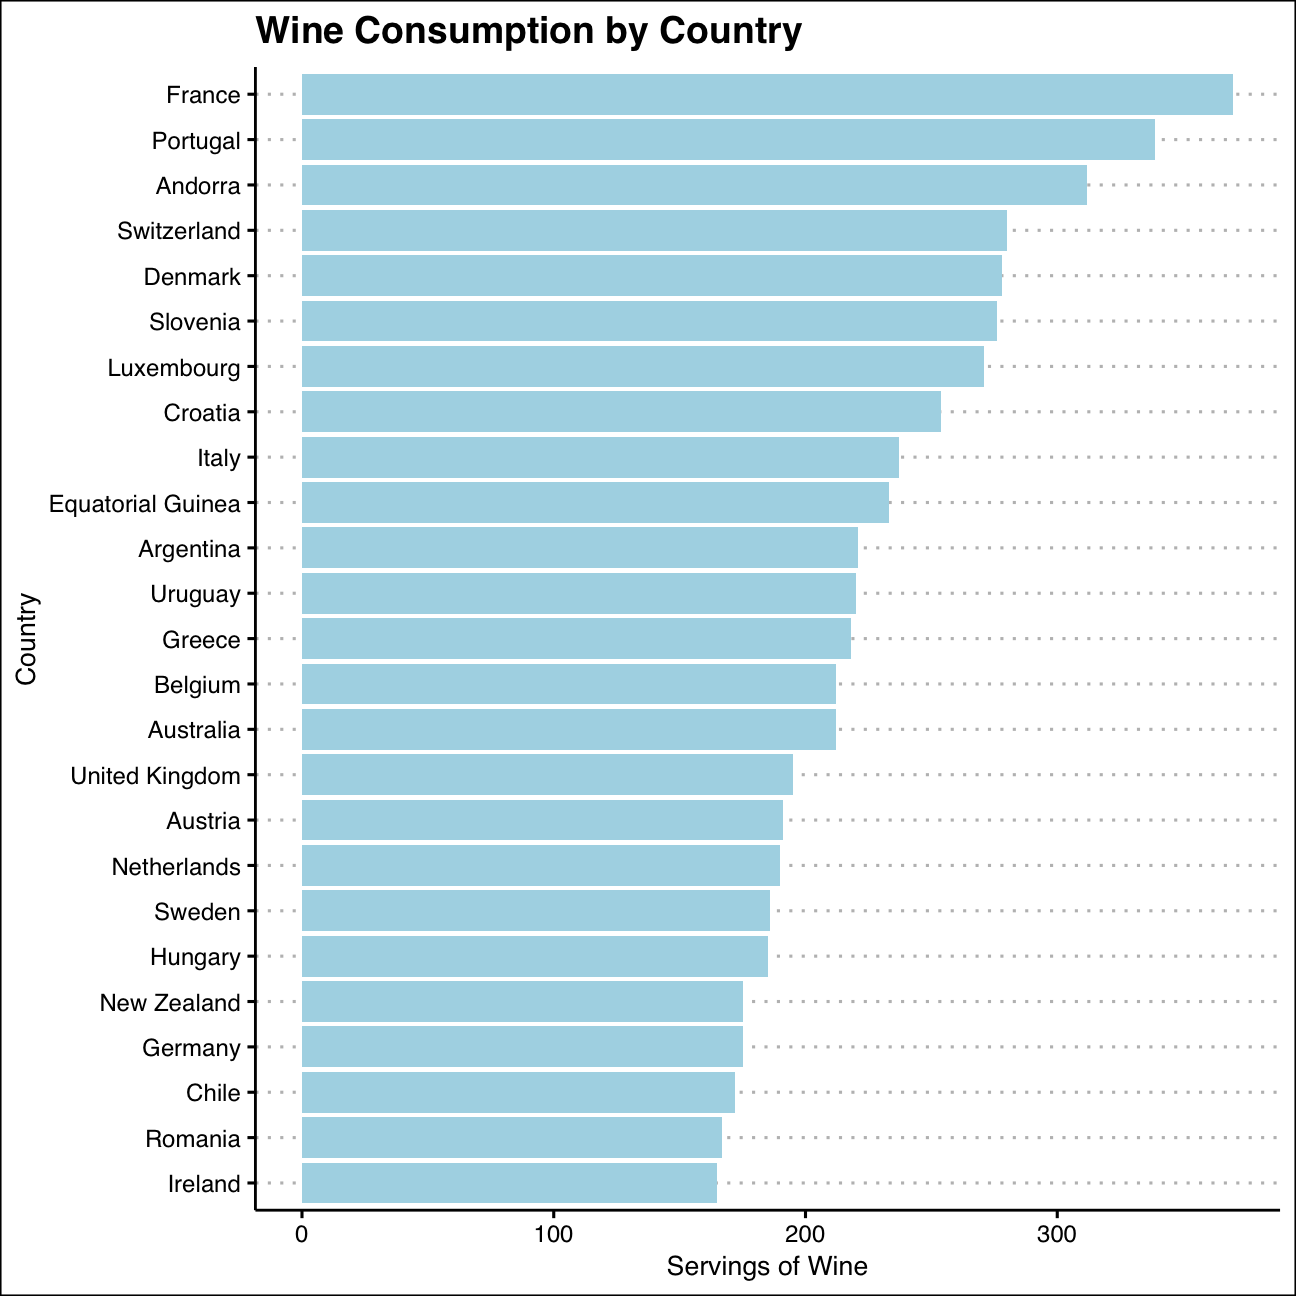
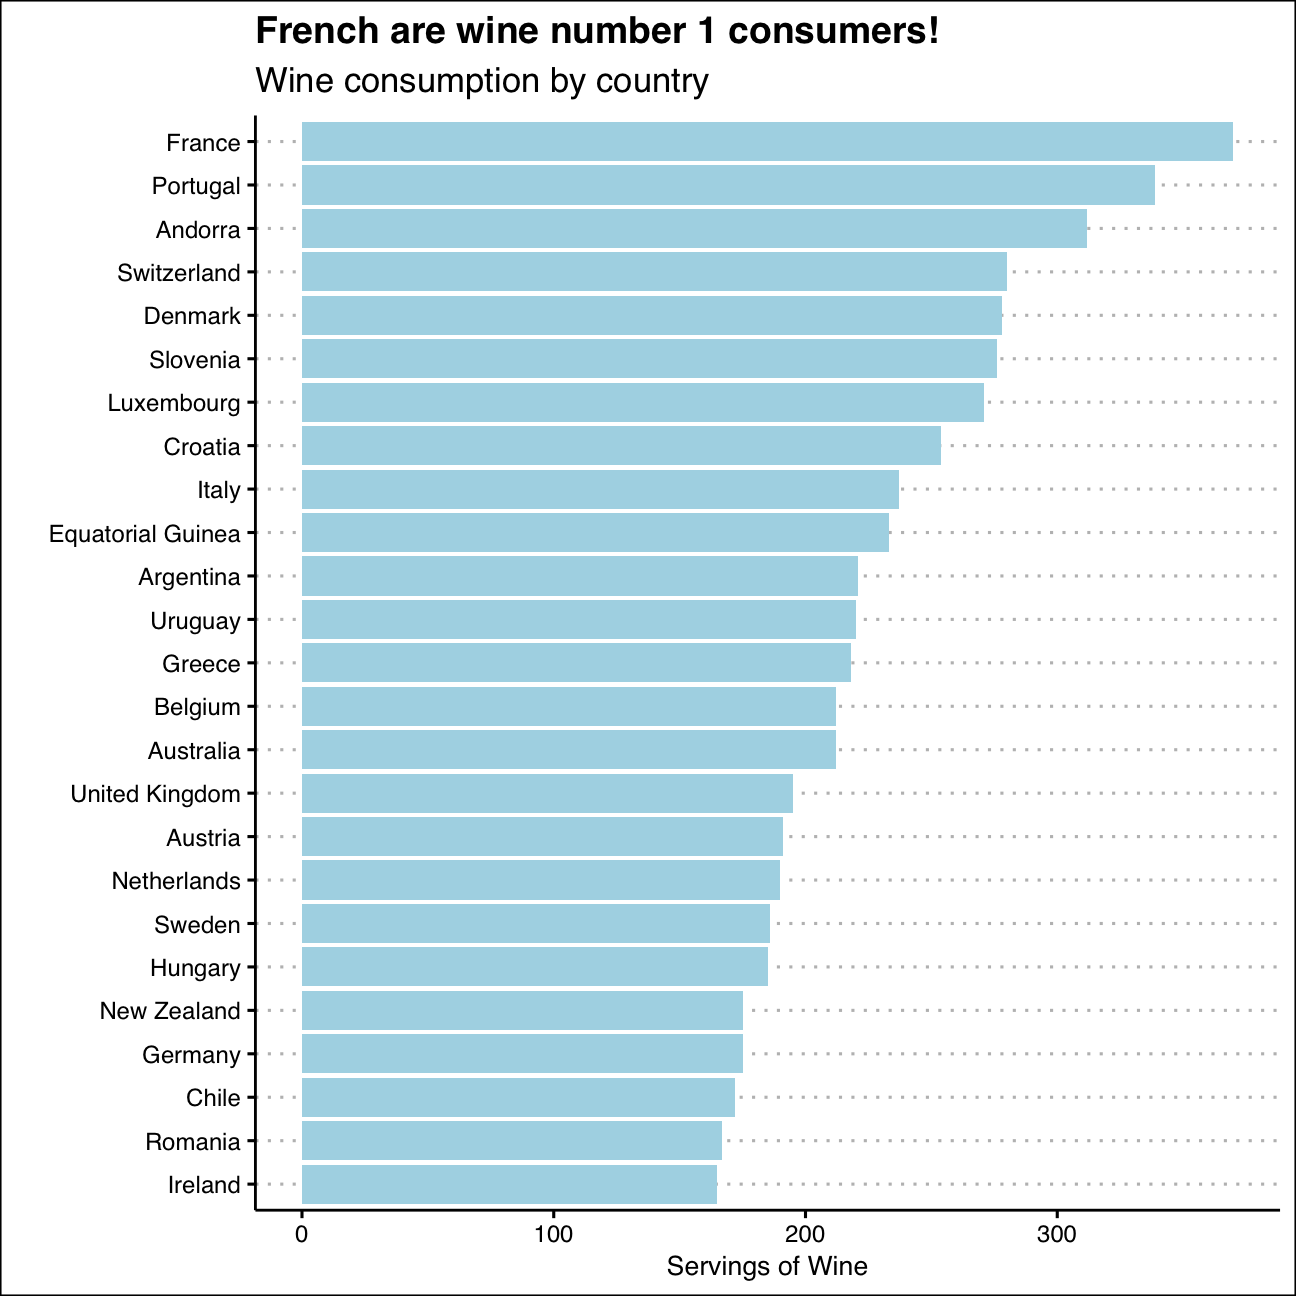
Added comments to the blog on alcoholic beverage

Changed region(s): [[0.0309, 0.0, 0.9568, 0.9259], [0.0, 0.463, 0.0309, 0.5247]]

diff --git a/content/blogs/blog8.html b/content/blogs/blog8.html
@@ -20,39 +20,64 @@ title: Have you ever wondered...?
 <h2>Checking data quality for drinks dataset</h2>
 <pre><code>## [1] 0</code></pre>
 <pre><code>## [1] FALSE</code></pre>
-<p>Based on checking the dataset, there are no missing values or any duplicates. Datatypes as indicated in the table.</p>
+<p>Based on checking the dataset, there are no missing values or any duplicates.</p>
 </div>
 <div id="top-25-beer-consuming-countries" class="section level2">
 <h2>Top 25 beer consuming countries</h2>
-<pre class="r"><code>top_beer &lt;- drinks %&gt;%
+<pre class="r"><code># Get the data from drinks and create a variable top_beer
+top_beer &lt;- drinks %&gt;%
+# Arrange the beer consuming countries in descending order
   arrange(desc(beer_servings))
 
+# Plot the findings; use head to choose the top 25 beer consuming countries
 ggplot(head(top_beer, 25), aes(x=reorder(country, beer_servings), y = beer_servings)) +
-  labs(y = &quot;Servings of Beer&quot;, x = &quot;Country&quot;, title = &quot;Beer Consumption by Country&quot;) +
+  # Customize the plot; add the titles, and the axes labels
+  labs(y = &quot;Servings of Beer&quot;, x = &quot;&quot;, title = &quot;Namibians like beer the most!&quot;,
+       subtitle=&quot;Beer consumption by country&quot;) +
+  # Use geom bar for categorical variables
   geom_bar(stat=&#39;identity&#39;, show.legend = FALSE, fill = &#39;red&#39;) +
+  #Flip the coordinates
   coord_flip() +
+  #Customize the theme
   theme_clean()</code></pre>
 <p><img src="/blogs/blog8_files/figure-html/beer_plot-1.png" width="648" style="display: block; margin: auto;" />
-## Top 25 wine consuming countries</p>
-<pre class="r"><code>top_wine &lt;- drinks %&gt;%
+The top 5 beer consuming countries are: Namibia, Czech Republic, Gabon, Germany and Poland.</p>
+</div>
+<div id="top-25-wine-consuming-countries" class="section level2">
+<h2>Top 25 wine consuming countries</h2>
+<pre class="r"><code># Get the data from drinks and create a variable top_wine
+top_wine &lt;- drinks %&gt;%
+  # Arrange the wine consuming countries in descending order
   arrange(desc(wine_servings))
 
+ # Plot the findings; use head to choose the top 25 wine consuming countries 
 ggplot(head(top_wine, 25), aes(x=reorder(country, wine_servings), y = wine_servings)) +
-  labs(y = &quot;Servings of Wine&quot;, x = &quot;Country&quot;, title = &quot;Wine Consumption by Country&quot;) +
+  # Customize the plot; add the titles, and the axes labels
+  labs(y = &quot;Servings of Wine&quot;, x = &quot;&quot;, title = &quot;French are wine number 1 consumers!&quot;,
+       subtitle = &quot;Wine consumption by country&quot;) +
+   # Use geom bar for categorical variables
   geom_bar(stat=&#39;identity&#39;, show.legend = FALSE, fill = &#39;lightblue&#39;) + 
+ #Flip the coordinates
   coord_flip() +
+   #Customize the theme
   theme_clean()</code></pre>
 <p><img src="/blogs/blog8_files/figure-html/wine_plot-1.png" width="648" style="display: block; margin: auto;" />
 ## Top 25 spirit consuming countries</p>
-<pre class="r"><code>top_spirits &lt;- drinks %&gt;%
+<pre class="r"><code># Get the data from drinks and create a variable top_spirits
+top_spirits &lt;- drinks %&gt;%
+ # Arrange the spirit consuming countries in descending order
   arrange(desc(spirit_servings))
 
+# Plot the findings; use head to choose the top 25 spirit consuming countries 
 ggplot(head(top_spirits, 25), aes(x=reorder(country, spirit_servings), y = spirit_servings)) +
-  labs(y = &quot;Servings of Spirits&quot;, x = &quot;Country&quot;, title = &quot;Spirit Consumption by Country&quot;) +
+   # Customize the plot; add the titles, and the axes labels
+  labs(y = &quot;Servings of Spirits&quot;, x = &quot;&quot;,title=&quot;Grenadians are the greatest spirit consumers! &quot;,subtitle = &quot;Spirit Consumption by Country&quot;) +
   geom_bar(stat=&#39;identity&#39;, show.legend = FALSE, fill = &#39;green&#39;) + 
+   # Flip the coordinates
   coord_flip() +
+   # Customize the theme
   theme_clean()</code></pre>
-<p><img src="/blogs/blog8_files/figure-html/spirit_plot-1.png" width="648" style="display: block; margin: auto;" />
-Consumption of alcoholic beverages differs across geographies and exposes national preferences and traditions in terms of beers, spirits and wines. Looking at the example of wine consumption, highest consumption per capita can be seen for countries with traditionally high production of wine (France, Portugal) while Switzerland and Denmark are more on the side of consumption. Overall, consumption patterns in terms of beverages likely align to a large extend with the national cuisine and food preferences, i.e. beer being paired with traditional German style meals.</p>
+<p><img src="/blogs/blog8_files/figure-html/spirit_plot-1.png" width="648" style="display: block; margin: auto;" /></p>
+<p>Consumption of alcoholic beverages differs across geographies and exposes national preferences and traditions in terms of beers, spirits and wines. Looking at the example of wine consumption, highest consumption per capita can be seen for countries with traditionally high production of wine (France, Portugal) while Switzerland and Denmark are more on the side of consumption. Overall, consumption patterns in terms of beverages likely align to a large extend with the national cuisine and food preferences, i.e. beer being paired with traditional German style meals.</p>
 </div>
 </div>

diff --git a/public/blogs/blog8/index.html b/public/blogs/blog8/index.html
@@ -86,40 +86,65 @@
 <h2>Checking data quality for drinks dataset</h2>
 <pre><code>## [1] 0</code></pre>
 <pre><code>## [1] FALSE</code></pre>
-<p>Based on checking the dataset, there are no missing values or any duplicates. Datatypes as indicated in the table.</p>
+<p>Based on checking the dataset, there are no missing values or any duplicates.</p>
 </div>
 <div id="top-25-beer-consuming-countries" class="section level2">
 <h2>Top 25 beer consuming countries</h2>
-<pre class="r"><code>top_beer &lt;- drinks %&gt;%
+<pre class="r"><code># Get the data from drinks and create a variable top_beer
+top_beer &lt;- drinks %&gt;%
+# Arrange the beer consuming countries in descending order
   arrange(desc(beer_servings))
 
+# Plot the findings; use head to choose the top 25 beer consuming countries
 ggplot(head(top_beer, 25), aes(x=reorder(country, beer_servings), y = beer_servings)) +
-  labs(y = &quot;Servings of Beer&quot;, x = &quot;Country&quot;, title = &quot;Beer Consumption by Country&quot;) +
+  # Customize the plot; add the titles, and the axes labels
+  labs(y = &quot;Servings of Beer&quot;, x = &quot;&quot;, title = &quot;Namibians like beer the most!&quot;,
+       subtitle=&quot;Beer consumption by country&quot;) +
+  # Use geom bar for categorical variables
   geom_bar(stat=&#39;identity&#39;, show.legend = FALSE, fill = &#39;red&#39;) +
+  #Flip the coordinates
   coord_flip() +
+  #Customize the theme
   theme_clean()</code></pre>
 <p><img src="/blogs/blog8_files/figure-html/beer_plot-1.png" width="648" style="display: block; margin: auto;" />
-## Top 25 wine consuming countries</p>
-<pre class="r"><code>top_wine &lt;- drinks %&gt;%
+The top 5 beer consuming countries are: Namibia, Czech Republic, Gabon, Germany and Poland.</p>
+</div>
+<div id="top-25-wine-consuming-countries" class="section level2">
+<h2>Top 25 wine consuming countries</h2>
+<pre class="r"><code># Get the data from drinks and create a variable top_wine
+top_wine &lt;- drinks %&gt;%
+  # Arrange the wine consuming countries in descending order
   arrange(desc(wine_servings))
 
+ # Plot the findings; use head to choose the top 25 wine consuming countries 
 ggplot(head(top_wine, 25), aes(x=reorder(country, wine_servings), y = wine_servings)) +
-  labs(y = &quot;Servings of Wine&quot;, x = &quot;Country&quot;, title = &quot;Wine Consumption by Country&quot;) +
+  # Customize the plot; add the titles, and the axes labels
+  labs(y = &quot;Servings of Wine&quot;, x = &quot;&quot;, title = &quot;French are wine number 1 consumers!&quot;,
+       subtitle = &quot;Wine consumption by country&quot;) +
+   # Use geom bar for categorical variables
   geom_bar(stat=&#39;identity&#39;, show.legend = FALSE, fill = &#39;lightblue&#39;) + 
+ #Flip the coordinates
   coord_flip() +
+   #Customize the theme
   theme_clean()</code></pre>
 <p><img src="/blogs/blog8_files/figure-html/wine_plot-1.png" width="648" style="display: block; margin: auto;" />
 ## Top 25 spirit consuming countries</p>
-<pre class="r"><code>top_spirits &lt;- drinks %&gt;%
+<pre class="r"><code># Get the data from drinks and create a variable top_spirits
+top_spirits &lt;- drinks %&gt;%
+ # Arrange the spirit consuming countries in descending order
   arrange(desc(spirit_servings))
 
+# Plot the findings; use head to choose the top 25 spirit consuming countries 
 ggplot(head(top_spirits, 25), aes(x=reorder(country, spirit_servings), y = spirit_servings)) +
-  labs(y = &quot;Servings of Spirits&quot;, x = &quot;Country&quot;, title = &quot;Spirit Consumption by Country&quot;) +
+   # Customize the plot; add the titles, and the axes labels
+  labs(y = &quot;Servings of Spirits&quot;, x = &quot;&quot;,title=&quot;Grenadians are the greatest spirit consumers! &quot;,subtitle = &quot;Spirit Consumption by Country&quot;) +
   geom_bar(stat=&#39;identity&#39;, show.legend = FALSE, fill = &#39;green&#39;) + 
+   # Flip the coordinates
   coord_flip() +
+   # Customize the theme
   theme_clean()</code></pre>
-<p><img src="/blogs/blog8_files/figure-html/spirit_plot-1.png" width="648" style="display: block; margin: auto;" />
-Consumption of alcoholic beverages differs across geographies and exposes national preferences and traditions in terms of beers, spirits and wines. Looking at the example of wine consumption, highest consumption per capita can be seen for countries with traditionally high production of wine (France, Portugal) while Switzerland and Denmark are more on the side of consumption. Overall, consumption patterns in terms of beverages likely align to a large extend with the national cuisine and food preferences, i.e. beer being paired with traditional German style meals.</p>
+<p><img src="/blogs/blog8_files/figure-html/spirit_plot-1.png" width="648" style="display: block; margin: auto;" /></p>
+<p>Consumption of alcoholic beverages differs across geographies and exposes national preferences and traditions in terms of beers, spirits and wines. Looking at the example of wine consumption, highest consumption per capita can be seen for countries with traditionally high production of wine (France, Portugal) while Switzerland and Denmark are more on the side of consumption. Overall, consumption patterns in terms of beverages likely align to a large extend with the national cuisine and food preferences, i.e. beer being paired with traditional German style meals.</p>
 </div>
 </div>
 
